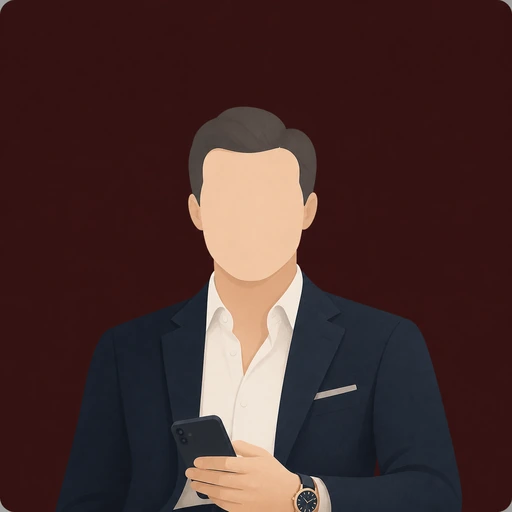
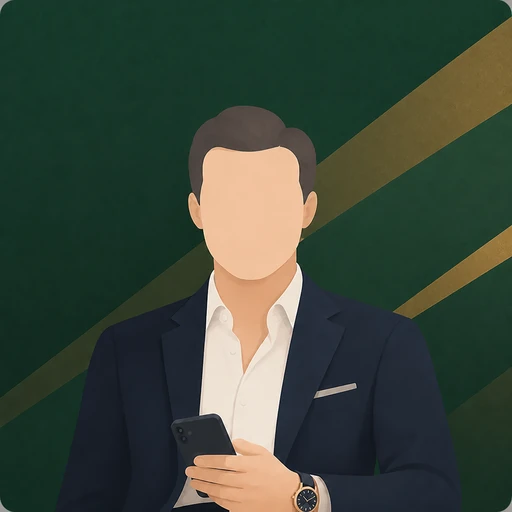
art: give characters semantic color palettes

diff --git a/TODO_ART.md b/TODO_ART.md
@@ -9,7 +9,7 @@ Scene illustrations exist only for a handful of key moments. Everything else (ph
 
 **STYLE PREFIX (prepend to all prompts):**
 
-> Minimalist flat vector illustration in the style of narrative mobile card games (Lapse-like). Muted, desaturated palette — deep navy, slate grey, warm paper beige — one restrained accent color. Clean geometric shapes, subtle grain, soft directional light, generous negative space. All human figures are FACELESS: heads are blank silhouettes or simple skin-tone shapes with NO eyes, NO mouth, NO nose, NO eyebrows. Identity is expressed only through clothing, build, posture and props. Politically neutral and fictional: no real politicians, no flags, no national symbols, no party logos, no readable text anywhere.
+> Minimalist flat vector illustration in the style of narrative mobile card games (Lapse-like). Muted, desaturated character-specific palette with two background colors and one restrained accent. Clean geometric shapes, subtle grain, soft directional light, generous negative space. All human figures are FACELESS: heads are blank silhouettes or simple skin-tone shapes with NO eyes, NO mouth, NO nose, NO eyebrows. Identity is expressed through clothing, build, posture, props, and semantic background color. Politically neutral and fictional: no real politicians, no flags, no national symbols, no party logos, no readable text anywhere.
 
 **NEGATIVE PROMPT:**
 
@@ -19,8 +19,31 @@ Scene illustrations exist only for a handful of key moments. Everything else (ph
 1. No faces, ever. One **neutral** pose per character — no expression variants.
 2. The player is never depicted. The portrait is the other person, chest-up, facing the viewer.
 3. Characters are told apart by silhouette and props only — keep each character's clothing/props identical across regenerations.
-4. Portraits: **512 × 512**, plain single-color background → `public/art/portraits/<id>.webp`
+4. Portraits: **512 × 512**, medium-dark two-tone semantic background with subtle low-contrast geometry → `public/art/portraits/<id>.webp`
    Scenes: **1024 × 1024** (square source; displayed cover-cropped into a near-square card ~440×470, so keep the key subject inside the central ~90%) → `public/art/scenes/<id>.webp`
+
+---
+
+## 0.1 CHARACTER COLOR LANGUAGE
+
+Background color communicates motivation or defining characteristic. It does not imply a party unless the narrative explicitly establishes one. Keep geometry subtle and backgrounds dark enough for the card's light choice labels.
+
+| Character | Palette | Meaning | Background motif |
+|---|---|---|---|
+| Aide | Steel blue + pale cyan | Dependable service and organization | Orderly concentric arcs |
+| Businessman | Emerald + antique gold | Private wealth, access, ambition | Ascending diagonal planes |
+| Coalition Whip | Royal purple + rust | Brokerage and coalition-building | Intersecting arcs |
+| Doctor | Healing turquoise + mint | Care and restoration | Sheltering circular halo |
+| Editor | Ink navy + copper | Scrutiny and editorial urgency | Horizontal press bands |
+| Family Representative | Terracotta + ochre | Home, dignity, grounded responsibility | Layered earth bands |
+| Foundation Director | Leaf green + muted gold | Civic growth and stewardship | Overlapping community rings |
+| Investigator | Slate blue + silver | Evidence and institutional independence | Restrained vertical bars |
+| Journalist | Ink blue + mustard | Curiosity and public illumination | Outward report rays |
+| Lawyer | Plum + parchment | Advocacy, balance, legal protection | Mirrored arches |
+| Mentor | Oxblood + antique gold | Old-guard patronage and legacy | Established halo arcs |
+| Minister | Midnight navy + cobalt | Formal authority and control | Symmetrical institutional panels |
+| Press Officer | Signal blue + coral | Communication and urgency | Outward signal bands |
+| Reformist | Teal + restrained white | Integrity and upward reform | Centered ascending beam |
 
 ---
 
